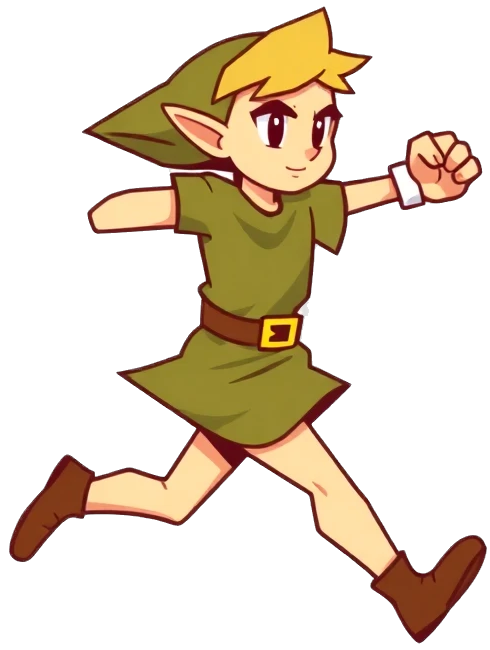
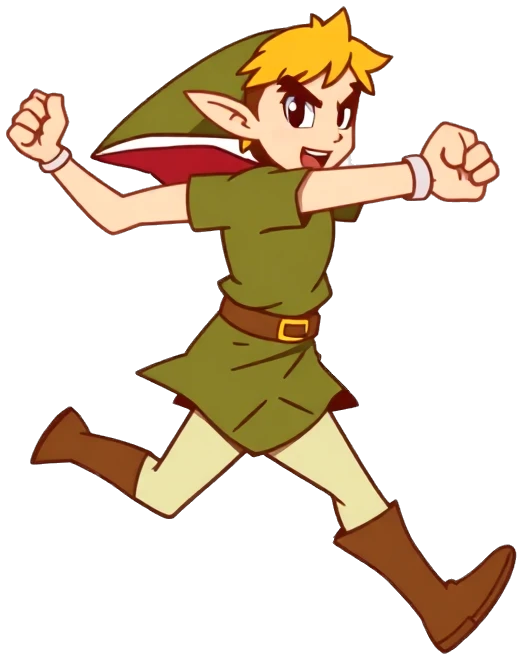
v15: show me the t pose character in its poses for walking and runing and jumping and ttacing

Changed region(s): [[0.0, 0.0, 1.0, 1.0], [0.7959, 0.9231, 0.8265, 0.9538]]

diff --git a/script.js b/script.js
@@ -67,6 +67,10 @@ document.addEventListener('DOMContentLoaded', () => {
     
     const initialImages = [
         { name: 'Hero (T-Pose)', file: 'hero_tpose.png' },
+        { name: 'Hero (Walk)', file: 'hero_walk.png' },
+        { name: 'Hero (Run)', file: 'hero_run.png' },
+        { name: 'Hero (Jump)', file: 'hero_jump.png' },
+        { name: 'Hero (Attack)', file: 'hero_attack.png' },
         { name: 'Goomba Enemy', file: 'enemy_goomba.png' },
         { name: 'Slime Enemy', file: 'enemy_slime.png' },
         { name: 'Tree Prop', file: 'prop_tree.png' },
